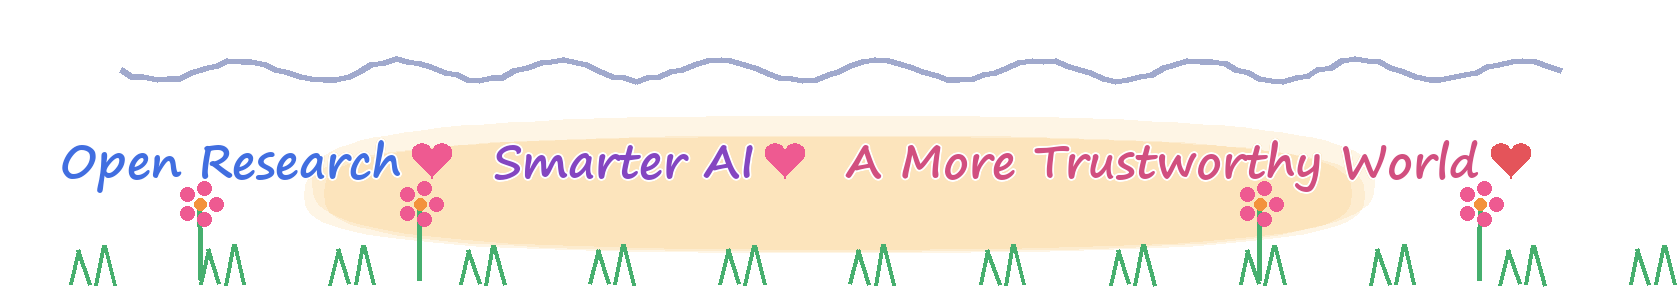
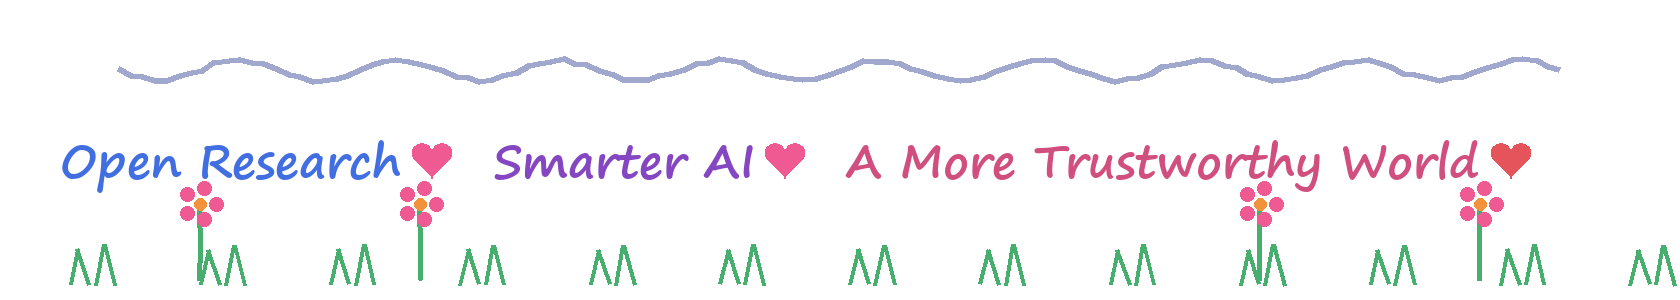
Remove muddy footer wash

diff --git a/README.md b/README.md
@@ -134,6 +134,6 @@ If MGA contributes to your research, please consider citing:
 > ### 💬 *"Selective Forgetting for a More Trustworthy Future."*
 > If you find MGA useful, please consider giving it a **⭐** — thanks for your interest! 🤖💙
 
-<img src="docs/assets/footer.png?v=3" width="72%" alt="Open Research · Smarter AI · A More Trustworthy World"/>
+<img src="docs/assets/footer.png?v=4" width="72%" alt="Open Research · Smarter AI · A More Trustworthy World"/>
 
 </div>
